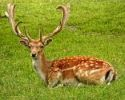
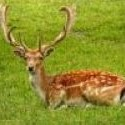
changed thumbnail size for home page

diff --git a/app/static/style.css b/app/static/style.css
@@ -72,8 +72,9 @@
 #galleries{
     display:grid;
     grid-gap: 20px;
-    grid-template-columns: repeat(auto-fit, minmax(250px, 1fr));
-    padding: 20px;
+    grid-template-columns: repeat(auto-fit, 260px);
+    justify-content: space-between;
+    padding: 20px 50px;
     width: minmax(80%, calc(100%-250px))
 }
 
@@ -84,9 +85,8 @@
 .photosPreview {
     display: grid;
     grid-template-rows: repeat(2, 1fr);
-    grid-template-columns: repeat(2, minmax(125px, 1fr));
-    grid-auto-columns: auto auto;
-    place-items: center;
+    grid-template-columns: repeat(2, 125px);
+    place-content: center;
     margin: auto;
     margin-bottom: 10px;
     height: 255px;

diff --git a/app/app.py b/app/app.py
@@ -227,28 +227,47 @@ def savePhoto(data, galleryFolder, filename, photoNum):
         data= data.split(',')[1]
 
     data = base64.b64decode(data)
-    
+    #save full image
     image = Image.open(BytesIO(data))
     image.save(filePath)
 
+    #calculate thumbnail dimensions
     thumbnail = Image.open(filePath)
     maxThumbHeight = 125
     maxThumbWidth = 125
     width = thumbnail.width
     height = thumbnail.height
     ratio = width / height
-
+    #crop thumbnail to right size
     #if photo is wider than tall then max width = 125px
     if ratio > 1:
-        width = maxThumbWidth
-        height = int(width / ratio)
-    #if photo is taller than wide max height = 125px
-    else:
         height = maxThumbHeight
         width = int(height * ratio)
-
-    # newWidth = int(thumbnailHeight * ratio)
+    #if photo is taller than wide max height = 125px
+    else:
+        width = maxThumbWidth
+        height = int(width / ratio)
     thumbnail.thumbnail((width, height))
+
+    #crop thumbnail to exact size
+    centerWidth = width//2
+    centerHeight = height//2
+    left = centerWidth - (maxThumbWidth//2)
+    right = centerWidth + (maxThumbWidth//2)
+    top = centerHeight - (maxThumbHeight//2)
+    bottom = centerHeight + (maxThumbHeight//2)
+    print(width)
+    print(height)
+    print(centerWidth)
+    print(centerHeight)
+    print(left)
+    print(centerWidth)
+    print(right)
+    print(top)
+    print(bottom)
+
+    thumbnail = thumbnail.crop((left, top, right, bottom))
+
     fileExtension = os.path.splitext(filename)[1]
     thumbnailPath = (galleryFolder + "/" + "thumbnail" + str(photoNum) + fileExtension)
     thumbnail.save(thumbnailPath)
